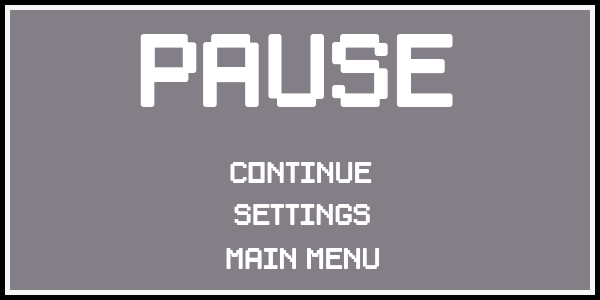
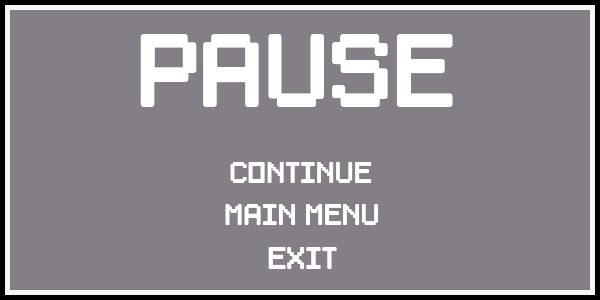
fix bug

Changed region(s): [[0.36, 0.81, 0.63, 0.9], [0.36, 0.66, 0.63, 0.75]]

diff --git a/src/com/pacman/controller/GameController.java b/src/com/pacman/controller/GameController.java
@@ -138,7 +138,7 @@ public class GameController implements Runnable {
 
                         view.updateLoadingScreen();
                         view.resetReadyTimer(); // 2 second
-                        this.nextLevel();
+                        this.initGame();
                         lastTime = System.nanoTime();
                     } else {
                         view.drawDeathAnimation();
@@ -236,24 +236,6 @@ public class GameController implements Runnable {
 
         // move to right pos in map
         ghostManager.reset(true);
-    }
-
-    ////////
-    //reset
-    ////////
-
-    public void nextLevel() {
-        // set map
-        map.setMap(data.loadMap(pacman, ghostManager, level));
-
-        // update view
-        view.update(pacman, ghostManager, map, level);
-
-        // move to right pos in map
-        pacman.reset(false, sound, soundPacman);
-
-        // move to right pos in map
-        ghostManager.reset(false);
     }
 
     public void startGameThread() {

diff --git a/src/com/pacman/view/GameView.java b/src/com/pacman/view/GameView.java
@@ -143,9 +143,6 @@ public class GameView extends JPanel implements KeyListener {
                         }
                         break;
                     case 1:
-                        //N.A
-                        break;
-                    case 2: {
                         while (pacman.getLive() > 0) {
                             pacman.decreaseLive(); // giam live de game dung lai
                         }
@@ -155,6 +152,10 @@ public class GameView extends JPanel implements KeyListener {
                         }
                         container.remove(this);
                         mainUI.showMainUi();
+                        break;
+                    case 2: {
+                        System.exit(0);
+                        break;
                     }
                 }
             }
